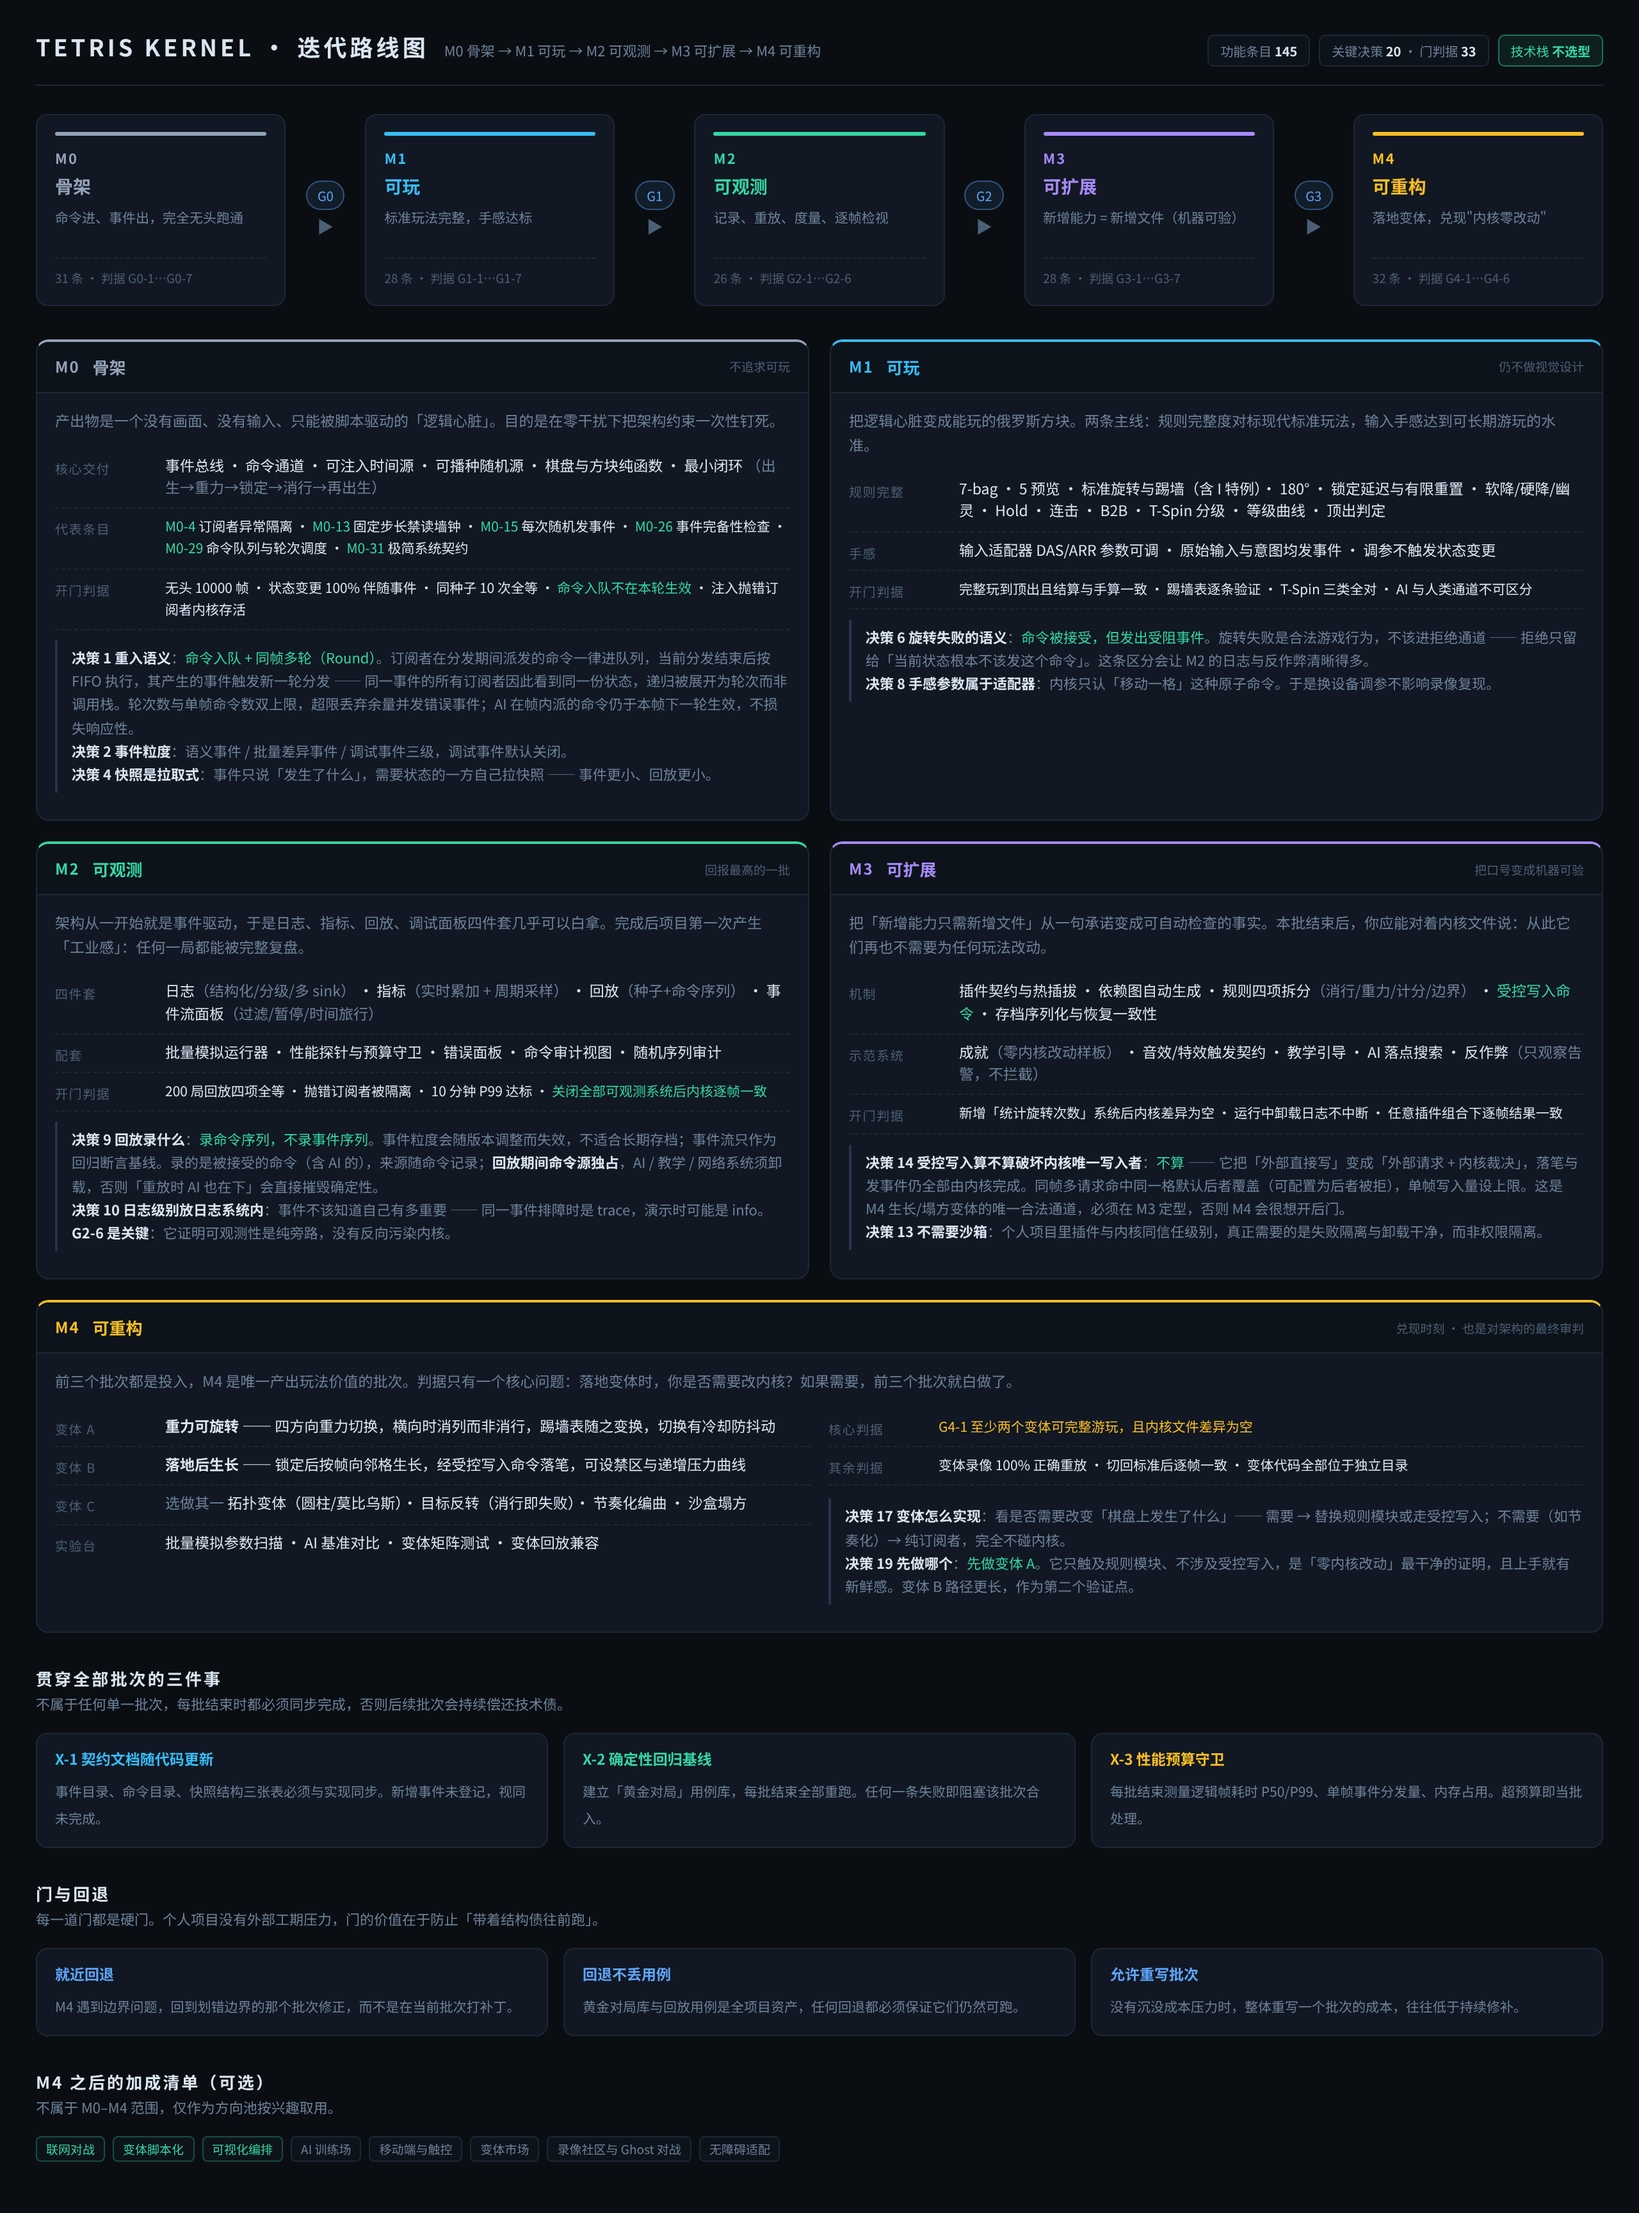
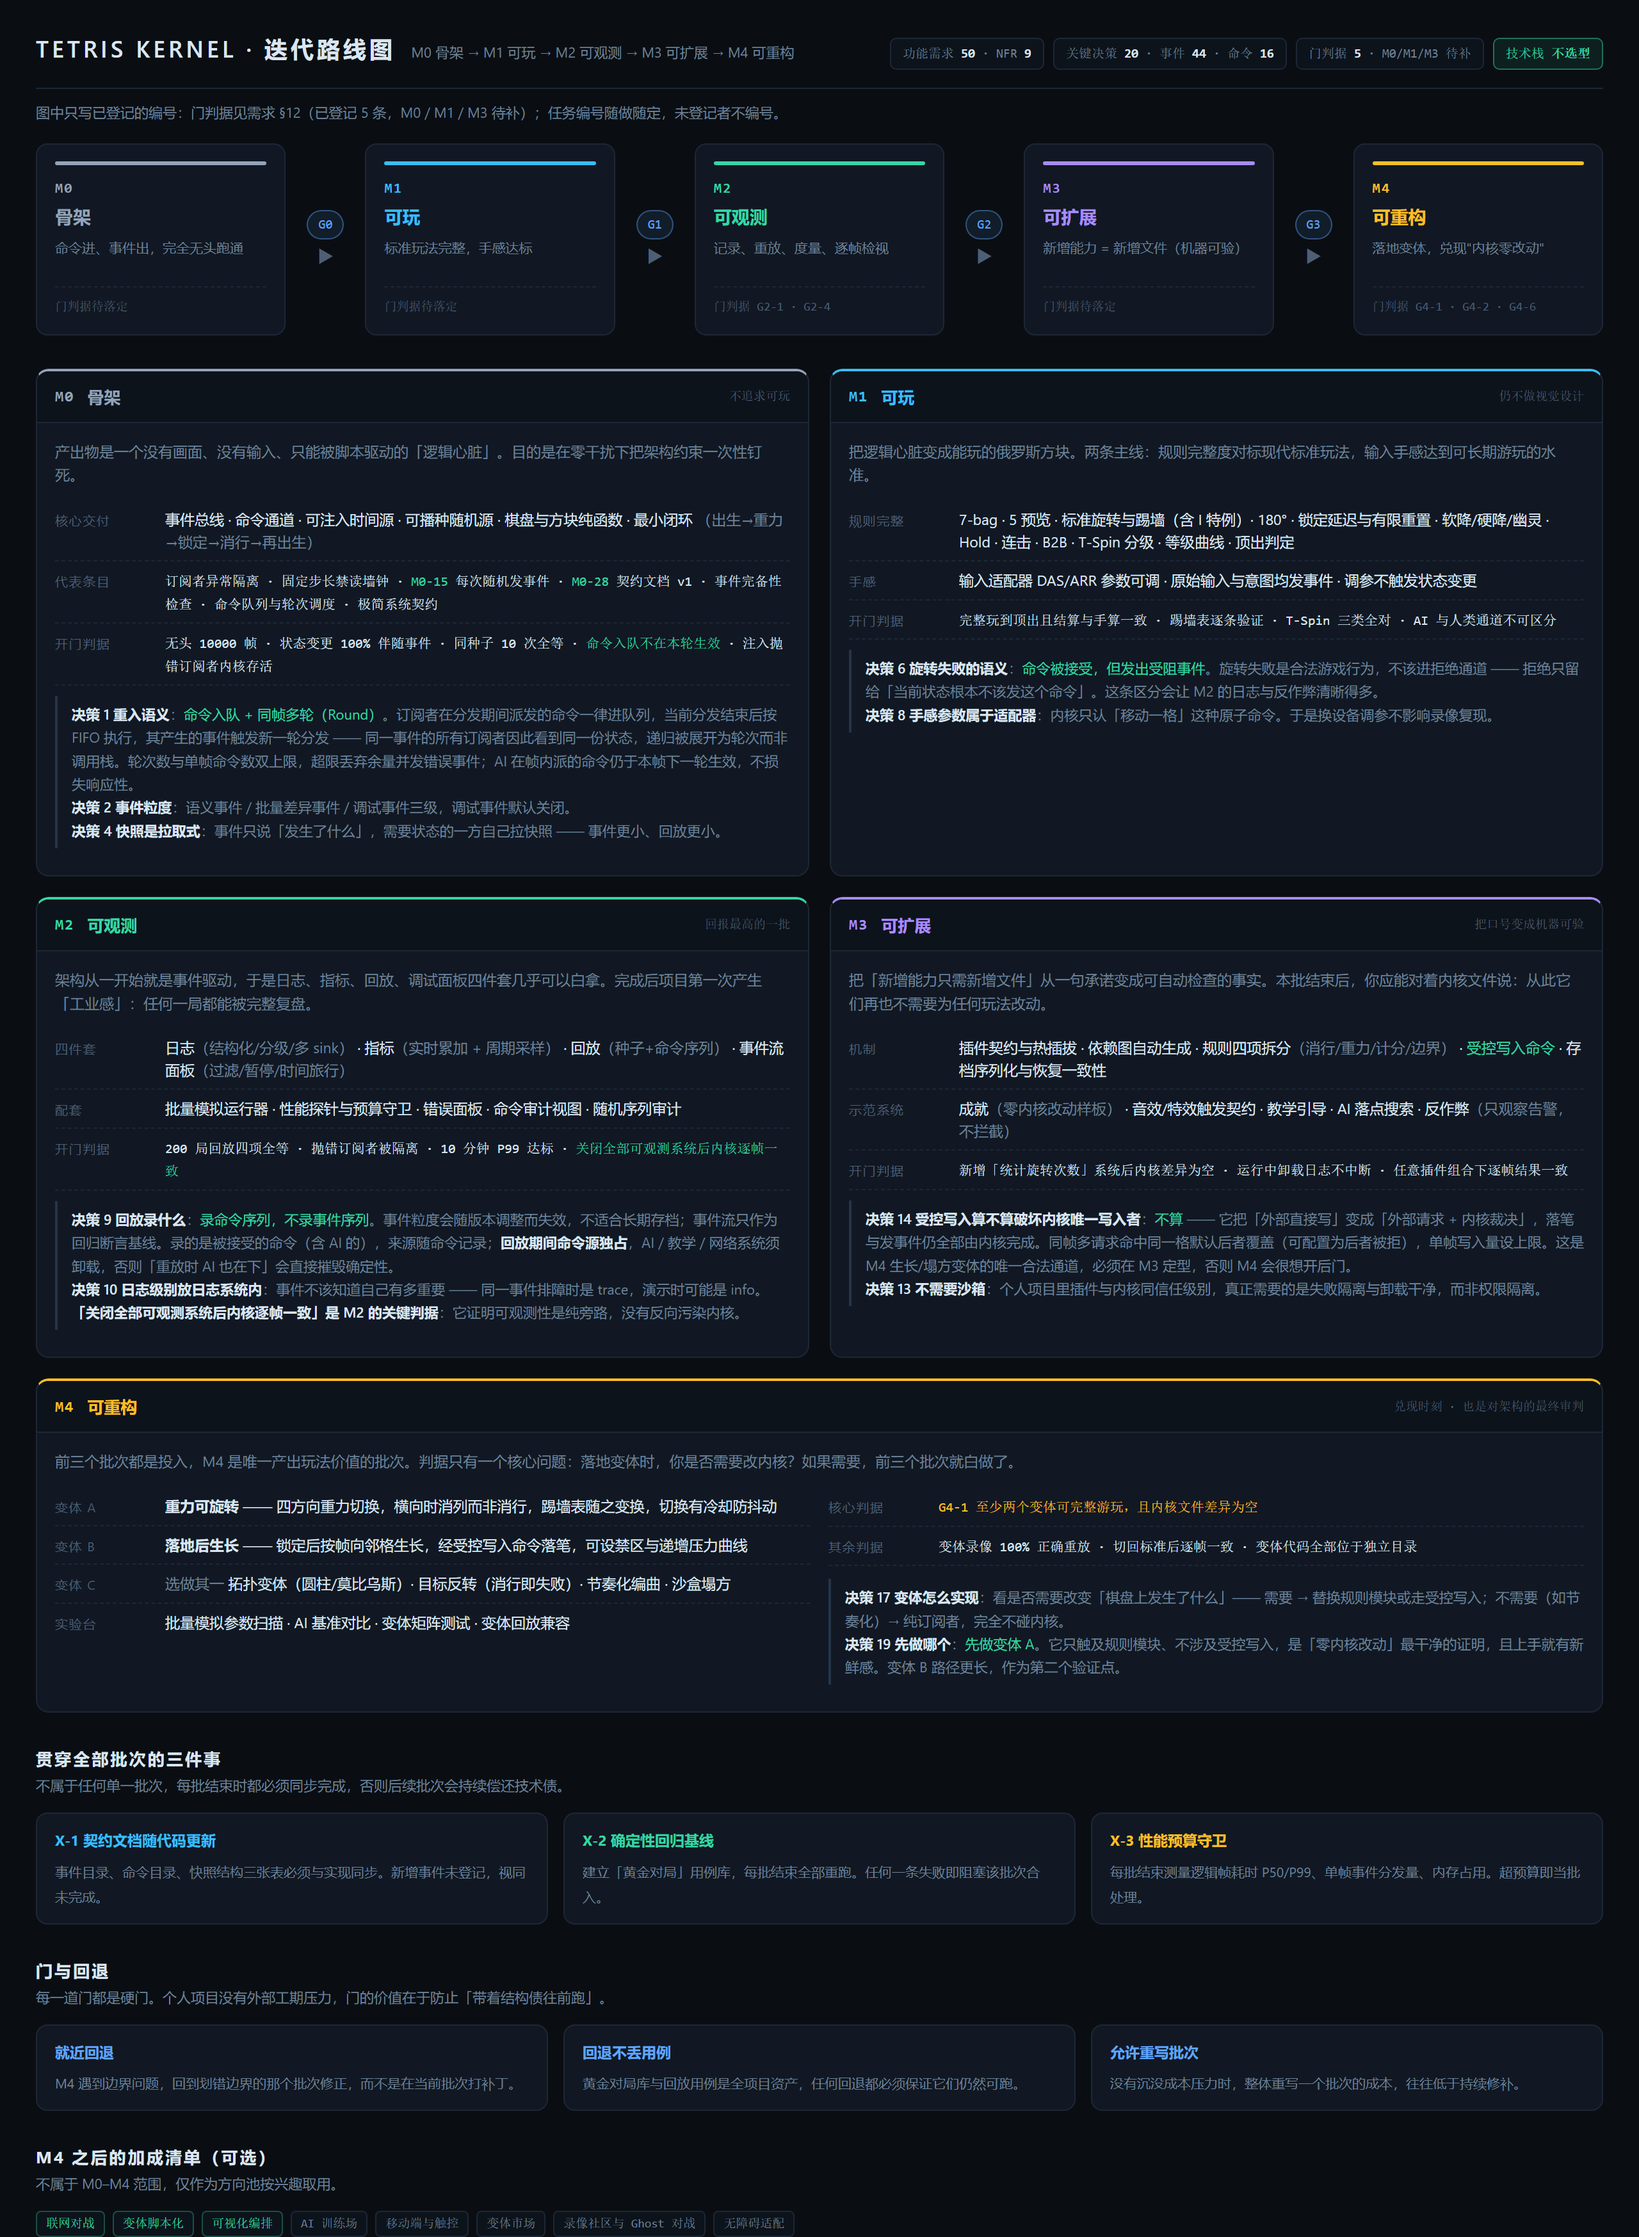
文档：图 3 门判据编号与需求 §12 对齐
图 3 是按旧编号画的：顶部写「功能条目 145」「门判据 33」，时间线节点写「31 条 · 判据 G0-1…G0-7」，
M0 卡片列了 M0-4 / M0-13 / M0-26 / M0-29 / M0-31，M2 卡片写「G2-6 是关键」。

这些编号在需求 §12 里一个都不存在——§12 只登记了 G2-1 / G2-4 / G4-1 / G4-2 / G4-6 五个门判据，
任务编号只登记了 10 个，而「145 条」正是 ai_docs 里记着「丢失、找不回来」的那份清单。
图与文档对不上，就是下一个坏引用。

改法：顶部 chip 换成真实计数（功能需求 50 · NFR 9 / 关键决策 20 · 事件 44 · 命令 16 /
门判据 5 · M0/M1/M3 待补）；时间线未登记的批次写「门判据待落定」，已登记的写实际编号；
M0 卡片只保留 M0-15 / M0-28，其余留条目名不编号；M2 的「G2-6 是关键」改成文字表述。
顶部加一行说明「图中只写已登记的编号」，读者一眼知道没写全是故意的。

图里「开门判据」的文字条目（无头 10000 帧、抛错订阅者存活、AI 与人类通道不可区分、P99 达标）
分别对应需求 §11 的 AC-2 / AC-4 / AC-6 / AC-7——不编号的文字站得住，所以只动编号、不动判据内容。

改完 HTML 用 Edge 无头模式重新出图（2560×3494，2 倍像素密度，与原图同规格）。

diff --git a/docs/html源文件/路线图_源文件.html b/docs/html源文件/路线图_源文件.html
@@ -95,32 +95,35 @@ p.secl{font-size:11px;color:var(--dim);margin-bottom:13px}
     <h1>TETRIS&nbsp;KERNEL · 迭代路线图</h1>
     <span class="sub">M0 骨架 → M1 可玩 → M2 可观测 → M3 可扩展 → M4 可重构</span>
     <div class="rt">
-      <span class="chip">功能条目 <b>145</b></span>
-      <span class="chip">关键决策 <b>20</b> · 门判据 <b>33</b></span>
+      <span class="chip">功能需求 <b>50</b> · NFR <b>9</b></span>
+      <span class="chip">关键决策 <b>20</b> · 事件 <b>44</b> · 命令 <b>16</b></span>
+      <span class="chip">门判据 <b>5</b> · M0/M1/M3 待补</span>
       <span class="chip on">技术栈 <b>不选型</b></span>
     </div>
   </div>
 
+  <p class="secl" style="margin:-12px 0 16px">图中只写已登记的编号：门判据见需求 §12（已登记 5 条，M0 / M1 / M3 待补）；任务编号随做随定，未登记者不编号。</p>
+
   <div class="tl">
     <div class="node n0"><div class="bar"></div><div class="id">M0</div><div class="nm">骨架</div>
       <div class="ds">命令进、事件出，完全无头跑通</div>
-      <div class="mk">31 条 · 判据 G0-1…G0-7</div></div>
+      <div class="mk">门判据待落定</div></div>
     <div class="gate"><div class="g">G0</div><div class="a">▶</div></div>
     <div class="node n1"><div class="bar"></div><div class="id">M1</div><div class="nm">可玩</div>
       <div class="ds">标准玩法完整，手感达标</div>
-      <div class="mk">28 条 · 判据 G1-1…G1-7</div></div>
+      <div class="mk">门判据待落定</div></div>
     <div class="gate"><div class="g">G1</div><div class="a">▶</div></div>
     <div class="node n2"><div class="bar"></div><div class="id">M2</div><div class="nm">可观测</div>
       <div class="ds">记录、重放、度量、逐帧检视</div>
-      <div class="mk">26 条 · 判据 G2-1…G2-6</div></div>
+      <div class="mk">门判据 G2-1 · G2-4</div></div>
     <div class="gate"><div class="g">G2</div><div class="a">▶</div></div>
     <div class="node n3"><div class="bar"></div><div class="id">M3</div><div class="nm">可扩展</div>
       <div class="ds">新增能力 = 新增文件（机器可验）</div>
-      <div class="mk">28 条 · 判据 G3-1…G3-7</div></div>
+      <div class="mk">门判据待落定</div></div>
     <div class="gate"><div class="g">G3</div><div class="a">▶</div></div>
     <div class="node n4"><div class="bar"></div><div class="id">M4</div><div class="nm">可重构</div>
       <div class="ds">落地变体，兑现"内核零改动"</div>
-      <div class="mk">32 条 · 判据 G4-1…G4-6</div></div>
+      <div class="mk">门判据 G4-1 · G4-2 · G4-6</div></div>
   </div>
 
   <div class="grid">
@@ -131,7 +134,7 @@ p.secl{font-size:11px;color:var(--dim);margin-bottom:13px}
       <div class="cb">
         <div class="lead">产出物是一个没有画面、没有输入、只能被脚本驱动的「逻辑心脏」。目的是在零干扰下把架构约束一次性钉死。</div>
         <div class="row"><div class="k">核心交付</div><div class="v">事件总线 · 命令通道 · 可注入时间源 · 可播种随机源 · 棋盘与方块纯函数 · 最小闭环 <em>（出生→重力→锁定→消行→再出生）</em></div></div>
-        <div class="row"><div class="k">代表条目</div><div class="v"><span class="kv"><span class="g">M0-4</span> 订阅者异常隔离 · <span class="g">M0-13</span> 固定步长禁读墙钟 · <span class="g">M0-15</span> 每次随机发事件 · <span class="g">M0-26</span> 事件完备性检查 · <span class="g">M0-29</span> 命令队列与轮次调度 · <span class="g">M0-31</span> 极简系统契约</span></div></div>
+        <div class="row"><div class="k">代表条目</div><div class="v"><span class="kv">订阅者异常隔离 · 固定步长禁读墙钟 · <span class="g">M0-15</span> 每次随机发事件 · <span class="g">M0-28</span> 契约文档 v1 · 事件完备性检查 · 命令队列与轮次调度 · 极简系统契约</span></div></div>
         <div class="row"><div class="k">开门判据</div><div class="v"><span class="kv">无头 10000 帧 · 状态变更 100% 伴随事件 · 同种子 10 次全等 · <span class="g">命令入队不在本轮生效</span> · 注入抛错订阅者内核存活</span></div></div>
         <div class="deco"><b>决策 1 重入语义</b>：<span class="pick">命令入队 + 同帧多轮（Round）</span>。订阅者在分发期间派发的命令一律进队列，当前分发结束后按 FIFO 执行，其产生的事件触发新一轮分发 —— 同一事件的所有订阅者因此看到同一份状态，递归被展开为轮次而非调用栈。轮次数与单帧命令数双上限，超限丢弃余量并发错误事件；AI 在帧内派的命令仍于本帧下一轮生效，不损失响应性。<br>
         <b>决策 2 事件粒度</b>：语义事件 / 批量差异事件 / 调试事件三级，调试事件默认关闭。<br>
@@ -162,7 +165,7 @@ p.secl{font-size:11px;color:var(--dim);margin-bottom:13px}
         <div class="row"><div class="k">开门判据</div><div class="v"><span class="kv">200 局回放四项全等 · 抛错订阅者被隔离 · 10 分钟 P99 达标 · <span class="g">关闭全部可观测系统后内核逐帧一致</span></span></div></div>
         <div class="deco"><b>决策 9 回放录什么</b>：<span class="pick">录命令序列，不录事件序列</span>。事件粒度会随版本调整而失效，不适合长期存档；事件流只作为回归断言基线。录的是被接受的命令（含 AI 的），来源随命令记录；<b>回放期间命令源独占</b>，AI / 教学 / 网络系统须卸载，否则「重放时 AI 也在下」会直接摧毁确定性。<br>
         <b>决策 10 日志级别放日志系统内</b>：事件不该知道自己有多重要 —— 同一事件排障时是 trace，演示时可能是 info。<br>
-        <b>G2-6 是关键</b>：它证明可观测性是纯旁路，没有反向污染内核。</div>
+        <b>「关闭全部可观测系统后内核逐帧一致」是 M2 的关键判据</b>：它证明可观测性是纯旁路，没有反向污染内核。</div>
       </div>
     </div>
 
